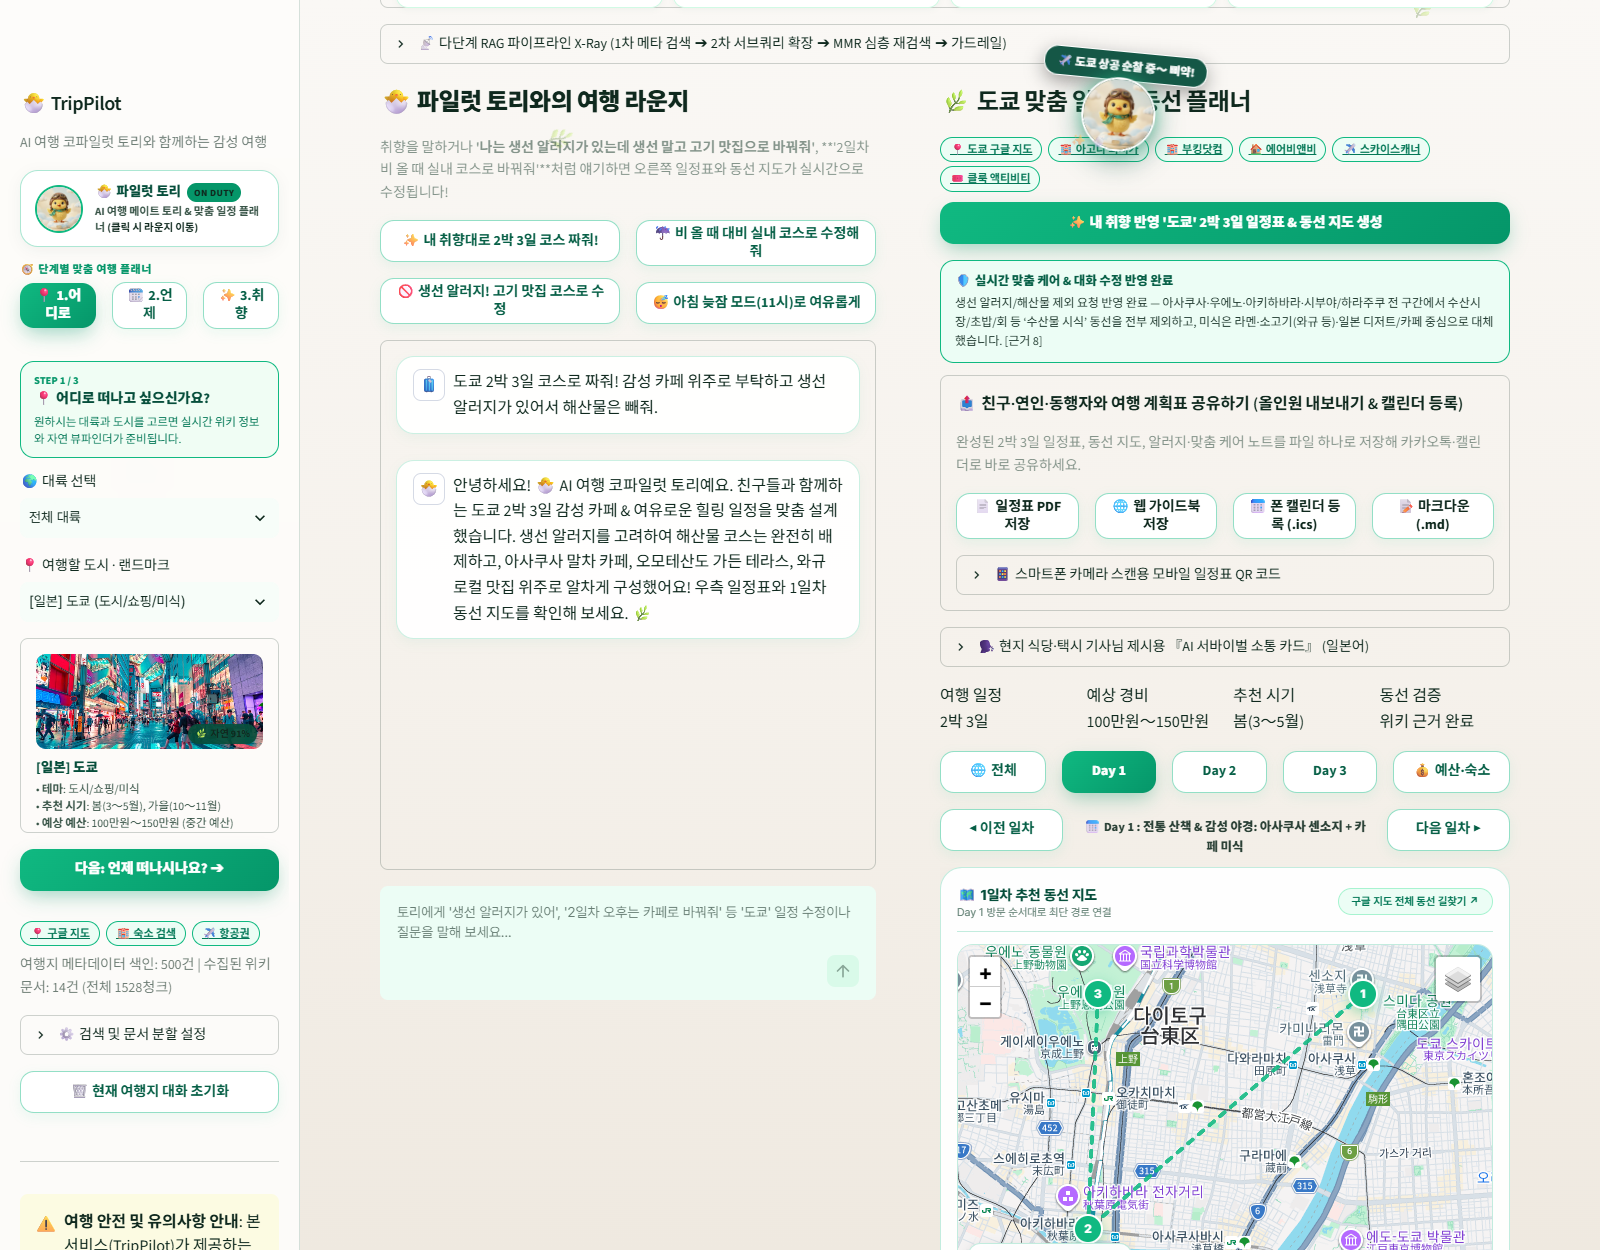
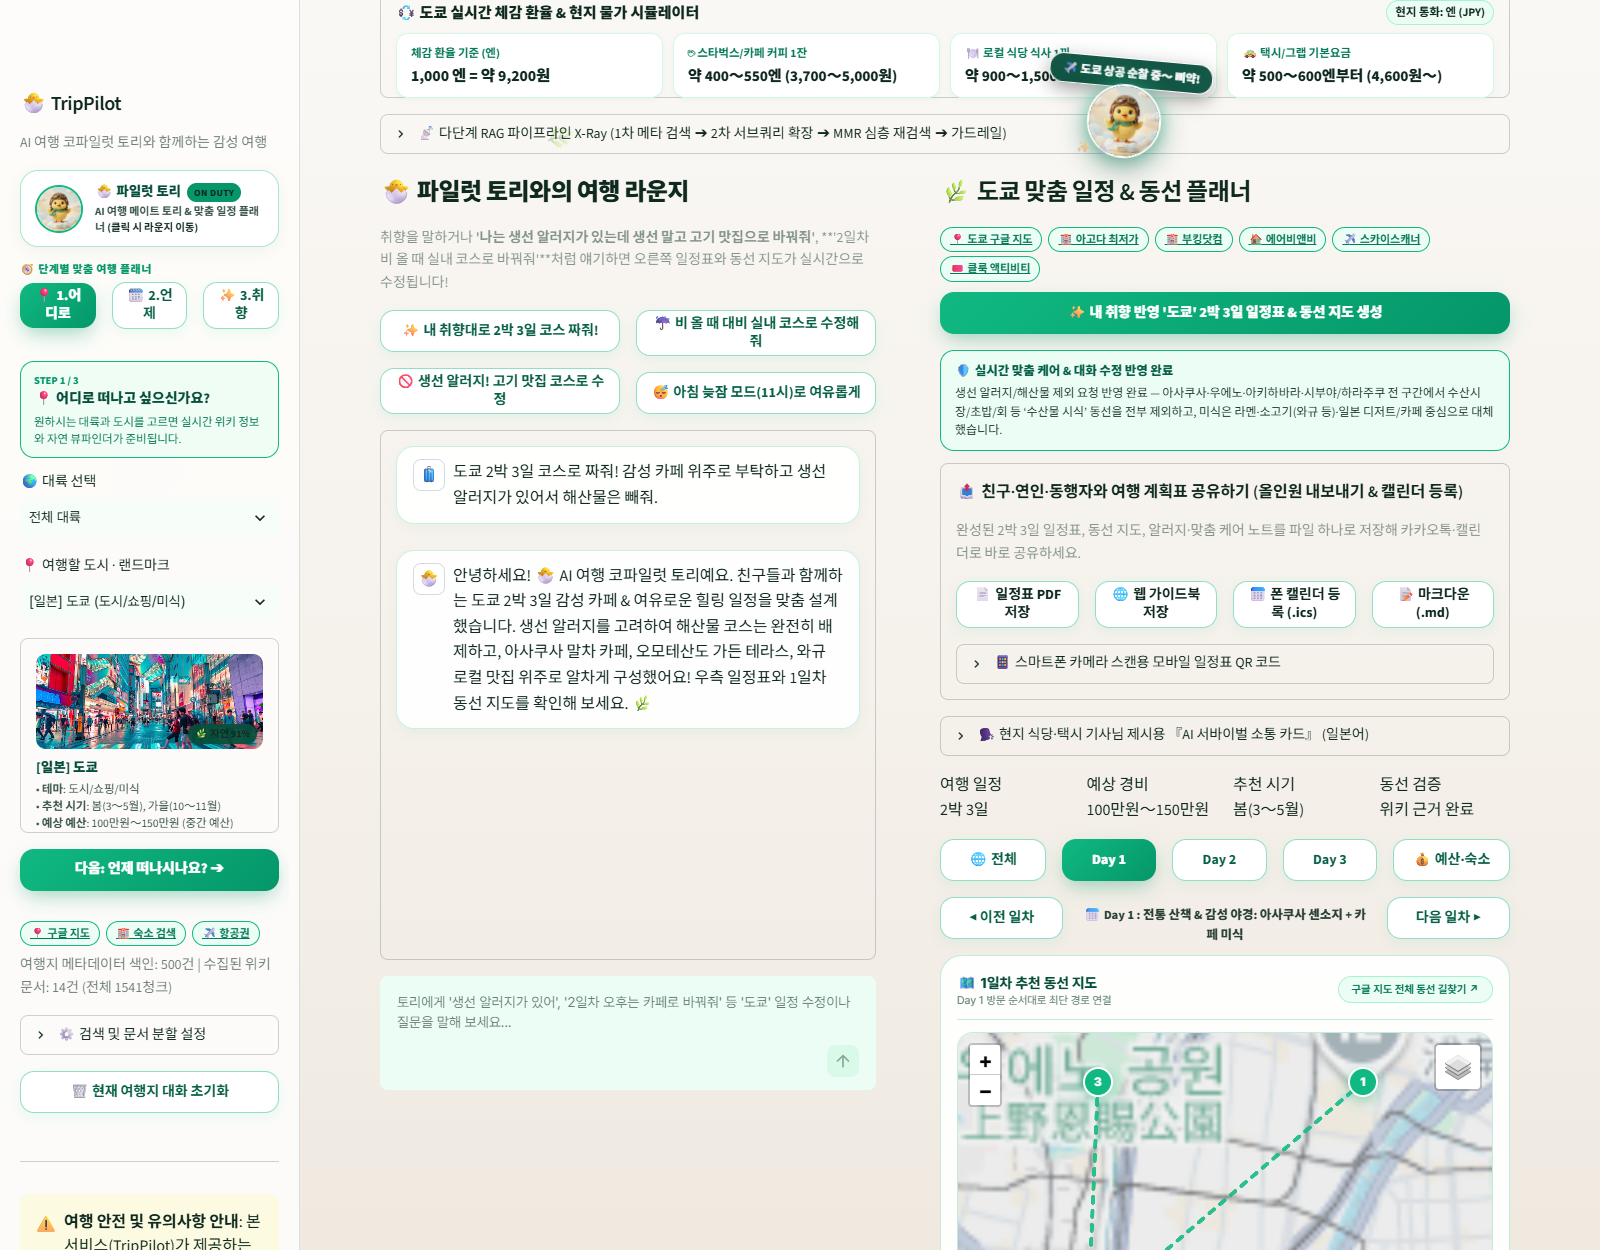
fix: Strip [근거 N] citation tags and markdown bold asterisks from care notes and user-facing messages for natural dialogue

Changed region(s): [[0.2188, 0.0, 0.9688, 1.0], [0.25, 0.78, 0.375, 0.8424]]

diff --git a/src/core_rag.py b/src/core_rag.py
@@ -44,6 +44,24 @@ llm = ChatOpenAI(
 CITE_REGEX = re.compile(r"\[근거\s*([\d,\s]+)\]")
 
 
+def clean_ai_artifacts(text: str) -> str:
+    """
+    사용자 화면(배너, 일정표, 요약)에 노출되는 문구에서 [근거 N] 인용 태그 및 ** 마크다운 표시를 완전히 제거하여
+    인공지능 특유의 기계적인 어투를 없애고 자연스럽고 친근한 텍스트로 정제합니다.
+    """
+    if not isinstance(text, str) or not text:
+        return text if text is not None else ""
+    # 1. [근거 N], [근거 1, 2], [근거1] 등 인용 태그 제거
+    cleaned = re.sub(r"\[근거\s*\d+(?:[,\s]*\d+)*\]", "", text)
+    # 2. **텍스트** 형태의 마크다운 볼드 기호 제거
+    cleaned = re.sub(r"\*\*(.*?)\*\*", r"\1", cleaned)
+    cleaned = cleaned.replace("**", "")
+    # 3. 불필요한 연속 공백 정리
+    cleaned = re.sub(r"[ \t]{2,}", " ", cleaned).strip()
+    return cleaned
+
+
+
 def safe_md(text: str) -> str:
     """
     마크다운 렌더링 시 물결표(~)가 2개 이상 들어갈 때
@@ -768,7 +786,7 @@ def generate_itinerary(
    - 단기(1~5일): 각 일차마다 오전/오후/저녁 총 3개 방문지(`schedule` 아이템)를 포함하십시오.
    - 중기(6~10일): 각 일차마다 주간 핵심 1~2개와 저녁 1개, 총 2~3개 방문지를 포함하십시오.
    - 장기/한달살기(11~30일): 각 일차마다 주간 1개와 저녁 1개(총 2개 슬롯)로 간결하게 작성하고, 각 스팟 설명은 1~2문장으로 압축하여 응답 토큰 한도를 초과하지 않도록 하십시오.
-3. 각 활동 설명(`activity`), 봇 인사말(`bot_message`), 여행 팁 문장 끝에는 참조한 문서 번호인 `[근거 1]`, `[근거 2]` 등을 자연스럽게 포함하십시오.
+3. 각 활동 설명(`activity`), 여행 팁 문장 끝에는 참조한 문서 번호인 `[근거 1]`, `[근거 2]` 등을 자연스럽게 포함하십시오. 단, `dietary_care_note`(맞춤 케어 요약)에는 `[근거 N]` 인용 태그나 마크다운 볼드(`**`) 기호를 절대 포함하지 말고 자연스럽고 편안한 일상 문장으로만 작성하십시오.
 4. 지도에 동선을 표시하기 위해 각 방문지(`place`)의 실제 위도(`lat`)와 경도(`lng`)를 서로 겹치지 않게 소수점 4자리 실수(float)로 정확히 기입하십시오.
 5. 출력은 반드시 파싱 가능한 순수 JSON 객체만 반환하십시오.
 
@@ -778,7 +796,7 @@ def generate_itinerary(
   "center_lat": 41.8826,
   "center_lng": -87.6226,
   "applied_style": "{pref_desc}",
-  "dietary_care_note": "알러지·식이제한·동선 배려 등 맞춤 케어 반영 요약 (예: '생선·해산물 알러지 반영 완료 — 수산시장/초밥 코스를 제외하고 현지 최상급 와규·징기스칸·라멘 및 디저트 명소로 대체')",
+  "dietary_care_note": "알러지·식이제한·동선 배려 등 맞춤 케어 반영 요약 (주의: [근거 N] 인용 태그나 ** 표시를 절대 포함하지 말고 '요청하신 해산물 코스를 제외하고 현지 로컬 맛집과 디저트 위주로 대체했습니다'처럼 자연스럽고 다정하게 작성)",
   "best_season_tip": "추천 여행 시기 및 기후 특징 요약 ([근거 N] 포함)",
   "budget_transport_tip": "예산 수준 및 현지 이동·교통 패스 팁 요약 ([근거 N] 포함)",
   "plan_b_tip": "우천 시 또는 돌발 상황 대비 실내 대체 코스/플랜 B 팁 ([근거 N] 포함)",
@@ -862,6 +880,10 @@ def generate_itinerary(
         if "```" in raw:
             raw = re.sub(r"```(?:json)?", "", raw).replace("```", "").strip()
         structured_plan = json.loads(raw)
+        if structured_plan.get("dietary_care_note"):
+            structured_plan["dietary_care_note"] = clean_ai_artifacts(structured_plan["dietary_care_note"])
+        if structured_plan.get("bot_message"):
+            structured_plan["bot_message"] = clean_ai_artifacts(structured_plan["bot_message"])
     except Exception:
         structured_plan = {}
 
@@ -997,7 +1019,7 @@ def export_itinerary_pdf_bytes(
     budget = trip_item.get("budget_level", "")
     days_count = len(structured_plan.get("days", [])) or 3
     applied_style = structured_plan.get("applied_style", "맞춤형 여행 코스")
-    care_note = structured_plan.get("dietary_care_note", "")
+    care_note = clean_ai_artifacts(structured_plan.get("dietary_care_note", ""))
 
     pdf = FPDF(orientation="P", unit="mm", format="A4")
     pdf.set_auto_page_break(auto=True, margin=15)
@@ -1161,7 +1183,7 @@ def export_itinerary_html_bytes(
     season = trip_item.get("best_season", "")
     budget = trip_item.get("budget_level", "")
     applied_style = structured_plan.get("applied_style", "맞춤형 여행 코스")
-    care_note = structured_plan.get("dietary_care_note", "")
+    care_note = clean_ai_artifacts(structured_plan.get("dietary_care_note", ""))
     city_links = structured_plan.get("city_links") or make_booking_links(dest_name, country)
     center_lat = structured_plan.get("center_lat") or 35.6762
     center_lng = structured_plan.get("center_lng") or 139.6503

diff --git a/app.py b/app.py
@@ -51,6 +51,7 @@ from core_rag import (
     compare_destinations,
     get_monthly_packing_and_weather,
     safe_md,
+    clean_ai_artifacts,
 )
 import importlib
 import nature_visuals
@@ -1139,21 +1140,25 @@ def render_interactive_planner_panel(
     structured_plan = itin_data.get("structured_plan", {})
     days_list = structured_plan.get("days", [])
 
-    # 실시간 반영된 알러지·식이제한·맞춤 수정 배너 표시
-    dietary_note = str(structured_plan.get("dietary_care_note") or "").strip()
-    active_chat_constraints = st.session_state.get("chat_constraints_by_trip", {}).get(trip_id, [])
+    # 실시간 반영된 알러지·식이제한·맞춤 수정 배너 표시 (인공지능 어투 [근거 N] 및 ** 표시 완전 정제)
+    dietary_note = clean_ai_artifacts(str(structured_plan.get("dietary_care_note") or "").strip())
+    active_chat_constraints = [
+        clean_ai_artifacts(c)
+        for c in st.session_state.get("chat_constraints_by_trip", {}).get(trip_id, [])
+    ]
     if dietary_note or active_chat_constraints:
         care_bg = "#ECFDF5" if vibe_mode == "nature" else "rgba(0, 245, 212, 0.14)"
         care_border = "#10B981" if vibe_mode == "nature" else "#00F5D4"
         care_text_col = "#065F46" if vibe_mode == "nature" else "#00F5D4"
         notes_joined = dietary_note if dietary_note else " · ".join(active_chat_constraints)
+        notes_joined = clean_ai_artifacts(notes_joined)
         st.markdown(
             f"""
             <div style="background:{care_bg};border:1.5px solid {care_border};border-radius:14px;padding:10px 14px;margin-bottom:12px;">
                 <div style="font-size:12.5px;font-weight:800;color:{care_text_col};">
                     🛡 실시간 맞춤 케어 & 대화 수정 반영 완료
                 </div>
-                <div style="font-size:12px;margin-top:3px;opacity:0.92;">
+                <div style="font-size:12px;margin-top:3px;opacity:0.92;line-height:1.55;">
                     {html.escape(notes_joined)}
                 </div>
             </div>
@@ -2316,6 +2321,7 @@ graph LR
             # 대화 중 알러지·식이제한·일정 수정 요청이 감지되면 세션 상태에 누적 저장
             detected_constraint = extract_user_constraint(active_user_input)
             if detected_constraint:
+                detected_constraint = clean_ai_artifacts(detected_constraint)
                 prev_list = st.session_state.chat_constraints_by_trip.get(trip_id, [])
                 if detected_constraint not in prev_list:
                     prev_list.append(detected_constraint)

diff --git a/src/publish_mobile_itinerary.py b/src/publish_mobile_itinerary.py
@@ -8,6 +8,7 @@ import json
 import urllib.request
 import urllib.parse
 from typing import Dict, Any, Optional
+from src.core_rag import clean_ai_artifacts
 
 _TELEGRAPH_TOKEN: Optional[str] = None
 _MOBILE_URL_CACHE: Dict[str, str] = {}
@@ -22,7 +23,7 @@ def build_itinerary_markdown(
     summary_text = str(structured_plan.get("summary", "")).strip()
     best_season = str(structured_plan.get("best_season", "")).strip()
     budget = str(structured_plan.get("budget", "")).strip()
-    care_note = str(structured_plan.get("dietary_care_note", "")).strip()
+    care_note = clean_ai_artifacts(str(structured_plan.get("dietary_care_note", "")).strip())
     days = structured_plan.get("days", [])
 
     days_cnt = len(days) or 3
@@ -151,7 +152,7 @@ def publish_itinerary_to_telegraph(
         summary_text = str(structured_plan.get("summary", "")).strip()
         best_season = str(structured_plan.get("best_season", "")).strip()
         budget = str(structured_plan.get("budget", "")).strip()
-        care_note = str(structured_plan.get("dietary_care_note", "")).strip()
+        care_note = clean_ai_artifacts(str(structured_plan.get("dietary_care_note", "")).strip())
 
         nodes = [
             {"tag": "h3", "children": [f"✈ [{country}] {dest_name} 맞춤 여행 일정표"]},
